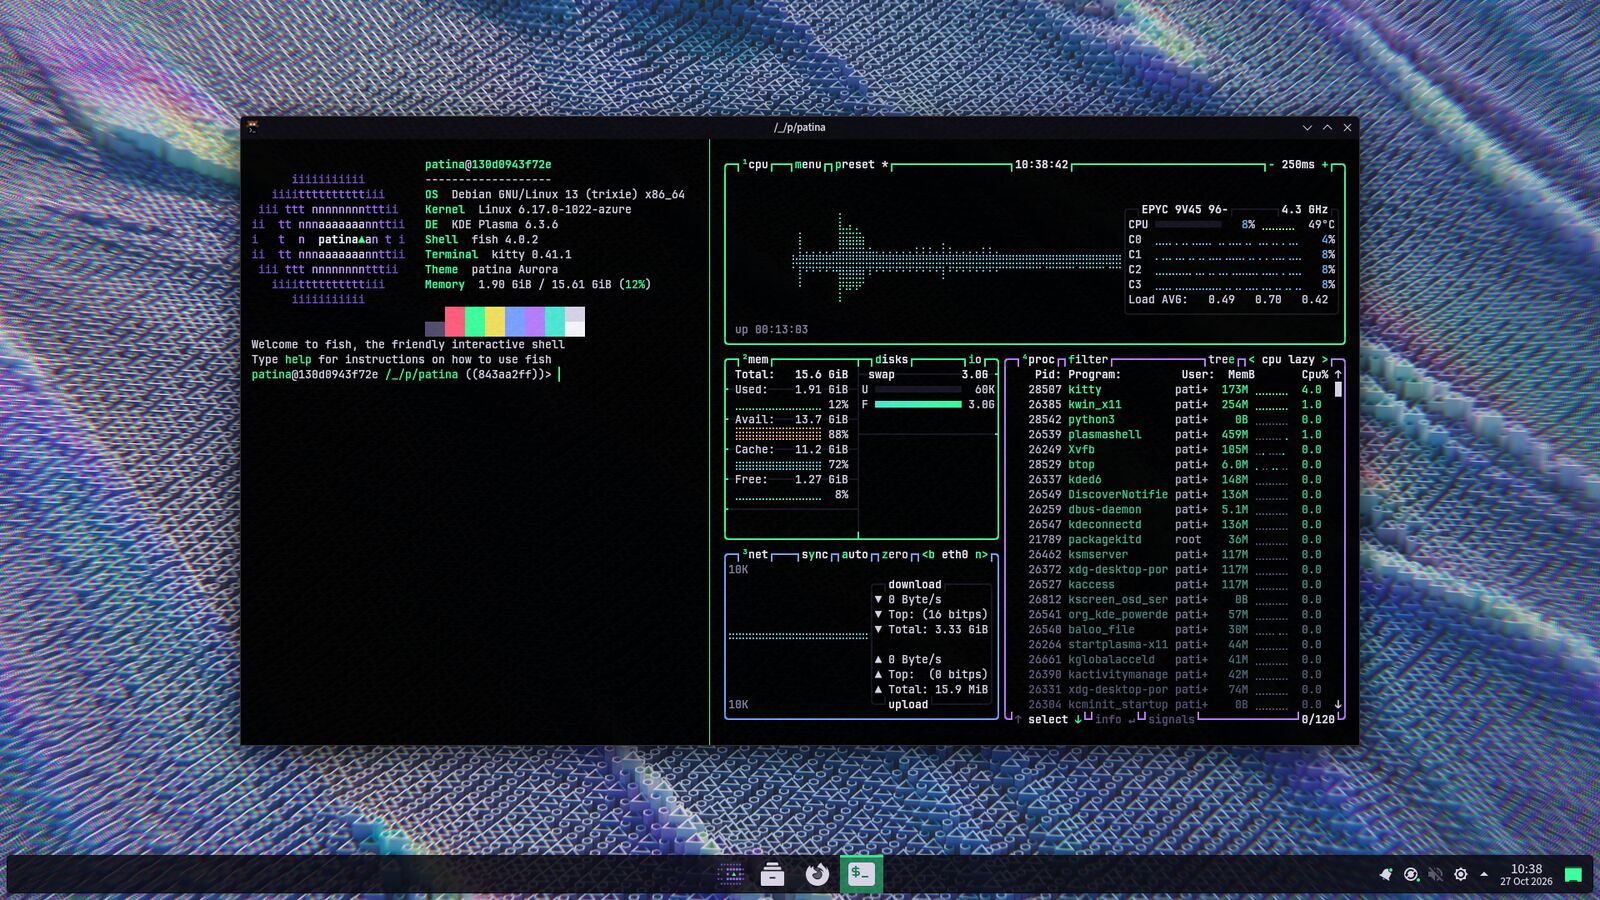
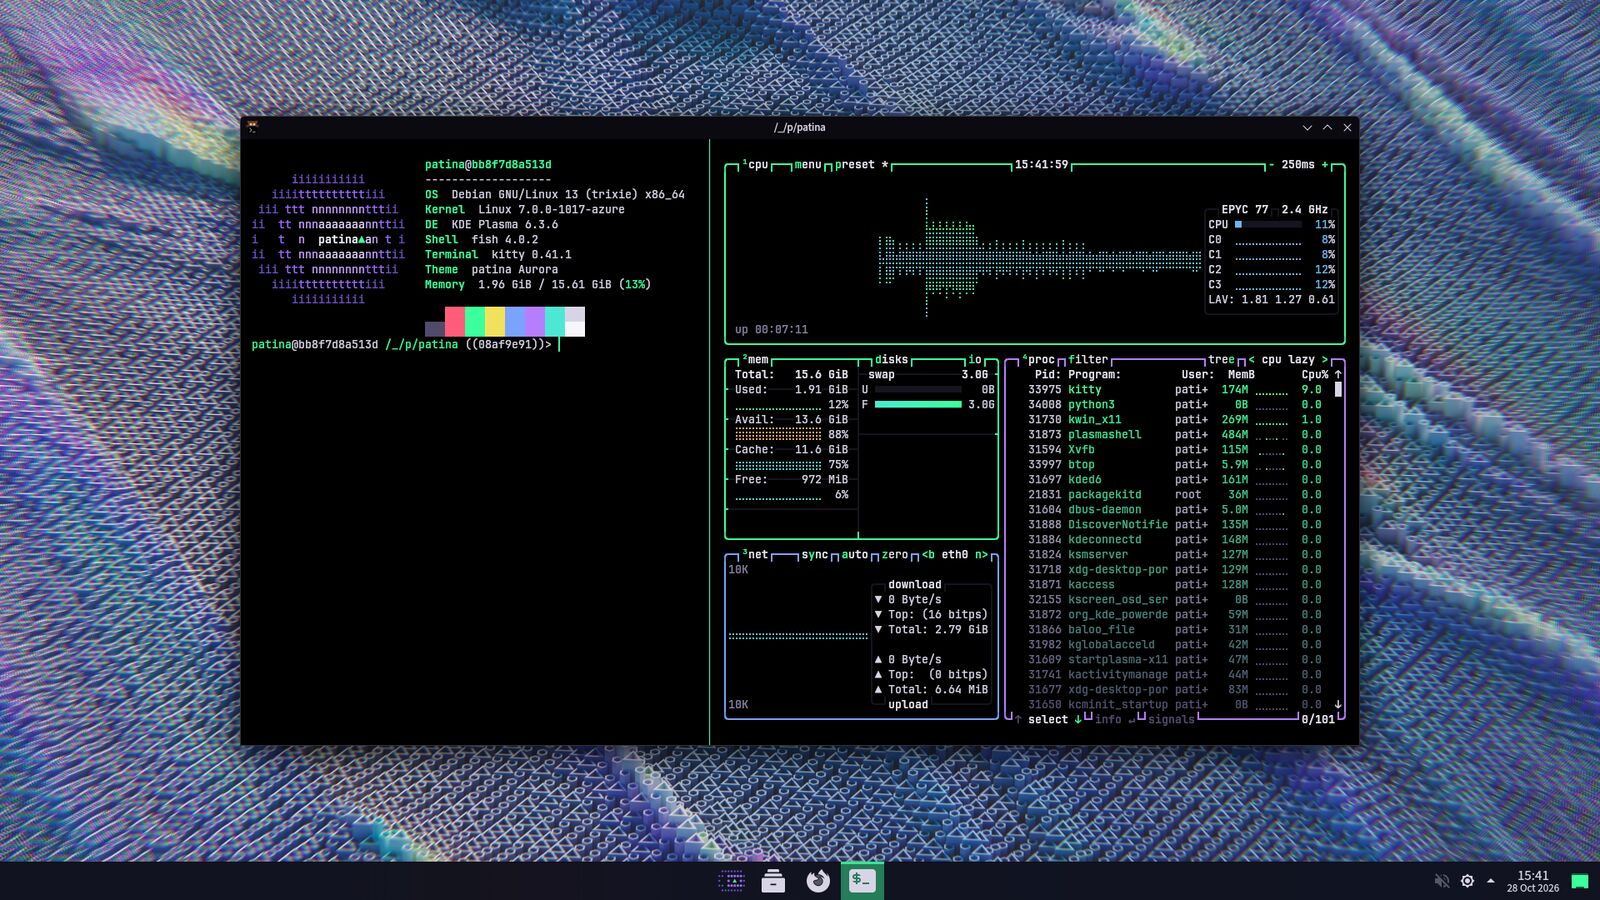
Refresh the screenshots and the facts that changed
The desktop and installer pictures come from patina's latest CI runs
(the desktop workflow on #44's head, the image's boot test on #42's),
scaled as before. Two facts moved in patina since the page went up:
the AI agent is opt-in, so kortex can run on the machine rather than
always does, and Tauon and Zed left the default apps for the opt-in
extras bundle.

Claude-Session: https://claude.ai/code/session_013UKWhUKXQjvcUEQN5DVrxA

diff --git a/index.html b/index.html
@@ -32,7 +32,7 @@
       <div>
         <p class="a-eyebrow rise">The free alternative to Windows and macOS · for x86-64 and ARM</p>
         <h1 class="rise d2">A new OS you can just ask. <span>And it asks you first.</span></h1>
-        <p class="a-lede rise d3">A complete, free desktop for PCs and ARM laptops, with its own assistant, kortex. Ask it in plain words. It shows every change first, and it runs on your own computer.</p>
+        <p class="a-lede rise d3">A complete, free desktop for PCs and ARM laptops, with its own assistant, kortex. Turn it on when you want it, then ask in plain words. It shows every change first, and it can run entirely on your own computer.</p>
         <div class="btn-row">
           <a class="btn a-btn" href="https://github.com/patina-os/patina" target="_blank" rel="noopener"><svg viewBox="0 0 16 16" aria-hidden="true" fill="currentColor"><path d="M8 0C3.58 0 0 3.58 0 8c0 3.54 2.29 6.53 5.47 7.59.4.07.55-.17.55-.38 0-.19-.01-.82-.01-1.49-2.01.37-2.53-.49-2.69-.94-.09-.23-.48-.94-.82-1.13-.28-.15-.68-.52-.01-.53.63-.01 1.08.58 1.23.82.72 1.21 1.87.87 2.33.66.07-.52.28-.87.51-1.07-1.78-.2-3.64-.89-3.64-3.95 0-.87.31-1.59.82-2.15-.08-.2-.36-1.02.08-2.12 0 0 .67-.21 2.2.82.64-.18 1.32-.27 2-.27.68 0 1.36.09 2 .27 1.53-1.04 2.2-.82 2.2-.82.44 1.1.16 1.92.08 2.12.51.56.82 1.27.82 2.15 0 3.07-1.87 3.75-3.65 3.95.29.25.54.73.54 1.48 0 1.07-.01 1.93-.01 2.2 0 .21.15.46.55.38A8.013 8.013 0 0016 8c0-4.42-3.58-8-8-8z"/></svg>Follow on GitHub</a>
           <a class="btn a-btn-ghost" href="#a-assistant">Meet kortex</a>
@@ -65,12 +65,12 @@
     <div class="wrap">
       <p class="a-kicker">Meet kortex</p>
       <h2>A helper on your computer, not in someone's cloud.</h2>
-      <p class="a-intro">kortex is patina's assistant. Press the Windows key and Space, then type <code>ai</code> and your request.</p>
+      <p class="a-intro">kortex is patina's assistant. Press the Windows key and Space, then type <code>ai</code> and your request. It stays off until you turn it on, in the installer or later.</p>
       <div class="a-promises">
         <div class="a-promise">
           <svg viewBox="0 0 44 44" aria-hidden="true"><rect x="5" y="9" width="34" height="22" rx="4" fill="none" stroke="#c3a2ff" stroke-width="2"/><path d="M15 36h14" stroke="#7c3aed" stroke-width="2"/><path d="M22 14l5.5 9.5h-11z" fill="#087a46"/></svg>
-          <h3>Runs on your machine</h3>
-          <p>What you ask never leaves it, and it works offline.</p>
+          <h3>Can run on your machine</h3>
+          <p>With a local model, what you ask never leaves it, and it works offline.</p>
         </div>
         <div class="a-promise">
           <svg viewBox="0 0 44 44" aria-hidden="true"><circle cx="22" cy="22" r="17" fill="none" stroke="#c3a2ff" stroke-width="2"/><path d="M14 22.5l5.5 5.5L31 16.5" fill="none" stroke="#087a46" stroke-width="2.5"/></svg>
@@ -80,7 +80,7 @@
         <div class="a-promise">
           <svg viewBox="0 0 44 44" aria-hidden="true"><path d="M8 15h28M8 29h28" stroke="#c3a2ff" stroke-width="2"/><circle cx="15" cy="15" r="4.5" fill="#f7f6fb" stroke="#7c3aed" stroke-width="2"/><circle cx="29" cy="29" r="4.5" fill="#087a46"/></svg>
           <h3>Yours to choose</h3>
-          <p>Prefer the cloud? Pick a provider, European ones first. Or switch it off.</p>
+          <p>A model on your computer, a cloud provider (European ones first), or none at all.</p>
         </div>
       </div>
     </div>
@@ -99,7 +99,7 @@
         <div class="a-app"><span class="task">The web</span><h3>Firefox ESR</h3><p>Telemetry and sponsored content off.</p></div>
         <div class="a-app"><span class="task">Chat</span><h3>Element</h3><p>Encrypted chat on Matrix.</p></div>
         <div class="a-app"><span class="task">Photos, video, PDFs</span><h3>Gwenview, Haruna, Okular</h3><p>Photos, video and PDFs.</p></div>
-        <div class="a-app"><span class="task">Music and more</span><h3>Tauon, Zed</h3><p>Music, and code when you get curious.</p></div>
+        <div class="a-app"><span class="task">Optional extras</span><h3>Tauon, Zed</h3><p>Music, and code when you get curious. One command adds them.</p></div>
       </div>
       <div class="a-craft">
         <div class="a-craft-head">
